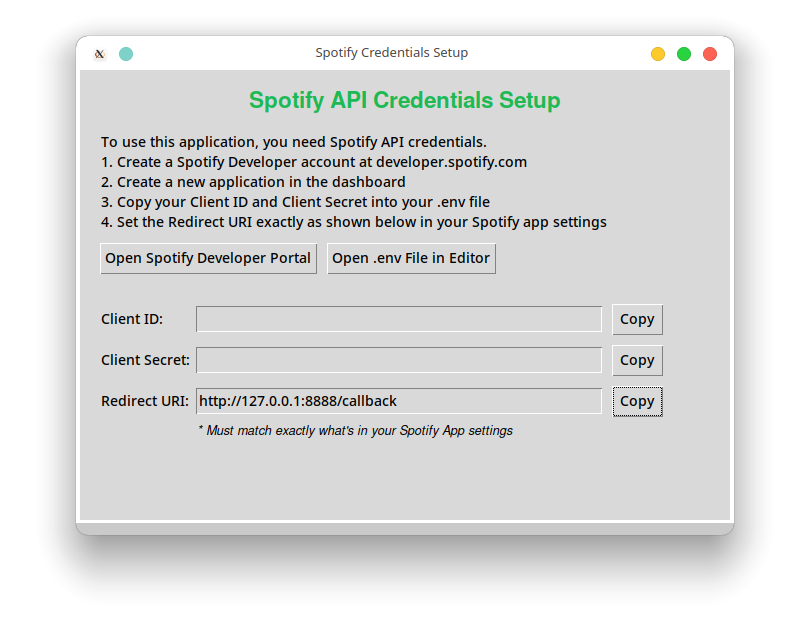
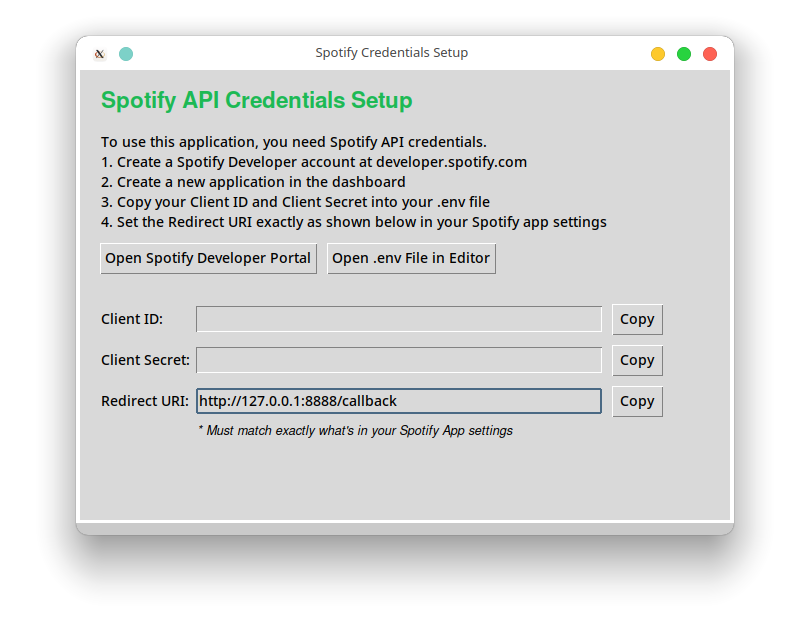
Release Candidate 1.1

Changed region(s): [[0.2469, 0.6119, 0.7407, 0.6731], [0.1235, 0.1224, 0.7099, 0.1836]]

diff --git a/Spotify_Playlist_Generator.py b/Spotify_Playlist_Generator.py
@@ -88,7 +88,7 @@ class SpotifyCredentialsDialog(tk.Toplevel):
         # Header
         header_label = ttk.Label(main_frame, text="Spotify API Credentials Setup", 
                                font=("Helvetica", 16, "bold"), foreground="#1DB954")
-        header_label.pack(pady=(0, 5))
+        header_label.pack(pady=(0, 5), anchor="w")  # Aligned left with anchor="w"
         
         # Instructions
         instructions_frame = ttk.Frame(main_frame)

diff --git a/README.md b/README.md
@@ -110,5 +110,9 @@ The GUI includes several helpful features:
 
 ## 📄 License
 
+This project is released under the GNU General Public License v3 (GPL-3.0).
+You are free to use, modify, and distribute this software according to the terms of the license.
+See the [LICENSE](LICENSE) file for the full license text.
+
 This project is maintained by MxBit © 2025.  
 Contact: mxbit(at)yahoo.com
